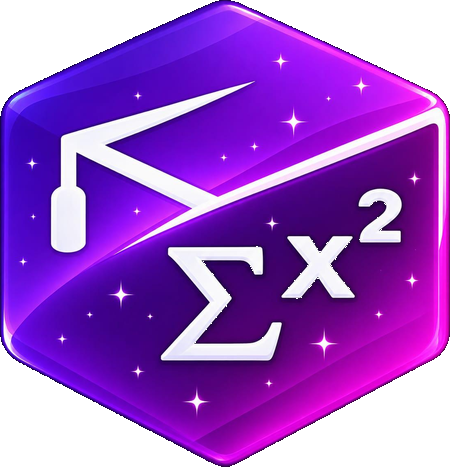
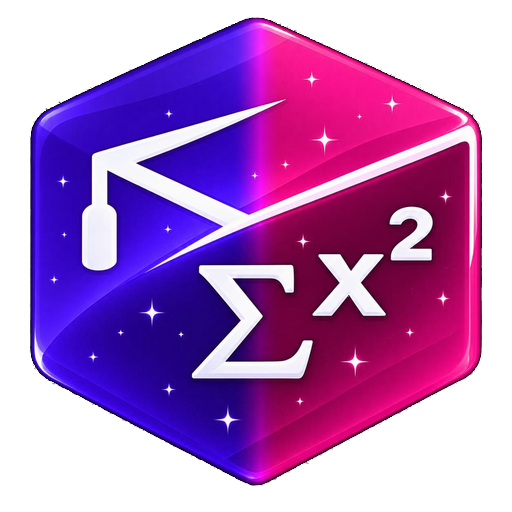
Balance MathWorld mark and Android launcher with the shared brand palette (#88)
* Use identical balanced purple/pink MathWorld mark without changing geometry or alpha

* Apply balanced MathWorld palette to Android launcher densities and native splash assets

* Keep launcher maintenance and audits aligned with balanced committed assets

* Keep launcher maintenance and audits aligned with balanced committed assets

* Keep launcher maintenance and audits aligned with balanced committed assets

* Keep launcher maintenance and audits aligned with balanced committed assets

* Keep launcher maintenance and audits aligned with balanced committed assets

diff --git a/tools/rebuild_approved_external_launcher.py b/tools/rebuild_approved_external_launcher.py
@@ -1,7 +1,7 @@
 #!/usr/bin/env python3
 """Generate ONLY Android launcher assets from the user-approved MathWorld icon.
 
-The PNG/WebP launched by Android contains a single continuous cosmic surface
+The PNG launched by Android contains a single continuous cosmic surface
 rather than a smaller hexagonal emblem on top of a second pale square.
 
 Never writes assets/branding/mathworld-mark.png, in-app logo widget,
@@ -44,6 +44,25 @@ def read_approved_icon() -> Image.Image:
     r, g, b = result.getpixel((result.width // 2, result.height // 2))
     if not (r < 210 and b > 100):
         raise ValueError("Unexpected icon color balance")
+    # Retain the approved artwork and highlights; rebalance only chromatic pixels.
+    pixels = result.load()
+    for y in range(result.height):
+        for x in range(result.width):
+            rgb = pixels[x, y]
+            r, g, b = (v / 255 for v in rgb)
+            v, low = max(r, g, b), min(r, g, b)
+            saturation = 1 - low / v if v else 0
+            if saturation < .12 or v < .025:
+                continue
+            t = max(0., min(1., (x / result.width - .45) / .10))
+            t = t * t * (3 - 2 * t)
+            hue = (255 + 73 * t) / 60
+            chroma = v * saturation
+            z = chroma * (1 - abs(hue % 2 - 1))
+            m = v - chroma
+            target = (z, 0, chroma) if hue < 5 else (chroma, 0, z)
+            mix = min(1., (saturation - .12) / .20)
+            pixels[x, y] = tuple(round(rgb[i] * (1 - mix) + 255 * (target[i] + m) * mix) for i in range(3))
     return result
 
 
@@ -64,12 +83,7 @@ def main() -> None:
             write_png(icon, ANDROID / directory / name, size)
     write_png(icon, ANDROID / "drawable-nodpi/mathworld_adaptive_foreground.png", 432)
     write_png(icon, ANDROID / "drawable-nodpi/ic_launcher_foreground.png", 432)
-    webp = ANDROID / "drawable-nodpi/mathworld_external_launcher.webp"
-    webp.parent.mkdir(parents=True, exist_ok=True)
-    icon.resize((432, 432), Image.Resampling.LANCZOS).save(
-        webp, "WEBP", quality=95, method=6
-    )
-    print(f"EXTERNAL_LAUNCHER|{webp.relative_to(ROOT)}|432")
+    write_png(icon, ANDROID / "drawable-nodpi/mathworld_external_launcher.png", 432)
     print("PASS: generated Android external launcher ONLY; internal MathWorld logo unchanged")
 
 

diff --git a/tools/inspect_brand_assets.py b/tools/inspect_brand_assets.py
@@ -16,7 +16,7 @@ ROOT = Path(__file__).resolve().parents[1]
 ASSETS = {
     "flutter-mark": "assets/branding/mathworld-mark.png",
     "android-adaptive-foreground": "android/app/src/main/res/drawable-nodpi/mathworld_adaptive_foreground.png",
-    "android-legacy-source": "android/app/src/main/res/drawable-nodpi/mathworld_external_launcher.webp",
+    "android-legacy-source": "android/app/src/main/res/drawable-nodpi/mathworld_external_launcher.png",
     "android-native-launch": "android/app/src/main/res/drawable-nodpi/launch_image.png",
     "android-launcher-mdpi": "android/app/src/main/res/mipmap-mdpi/ic_launcher.png",
     "android-launcher-round-mdpi": "android/app/src/main/res/mipmap-mdpi/ic_launcher_round.png",
@@ -96,7 +96,7 @@ def main():
     native_launch=next(x for x in results if x["name"] == "ios-native-launch-3x")
     if (native_launch["width"],native_launch["height"]) != (504,555):
         raise SystemExit("Native iOS splash image must be 504x555 pixels at 3x")
-    print("PASS: Android launcher full-bleed; Flutter mark, iOS/PWA and native splash unchanged")
+    print("PASS: Android launcher full-bleed; mark and native splash retain transparent geometry")
 
 if __name__=="__main__":
     main()

diff --git a/assets/branding/APPROVED_EXTERNAL_LAUNCHER.md b/assets/branding/APPROVED_EXTERNAL_LAUNCHER.md
@@ -1,6 +1,6 @@
 # MathWorld approved external Android launcher
 
-**Approved artwork:** glossy unified blue → violet → magenta rounded-square
+**Approved artwork:** glossy balanced violet → pink rounded-square
 icon featuring the graduation-cap stroke and `Σ x²`, **without** a separate
 smaller hexagonal badge or pastel outer background.
 
@@ -11,8 +11,7 @@ smaller hexagonal badge or pastel outer background.
 - Exact deterministic generator:
   `python tools/rebuild_approved_external_launcher.py`
 - Native Android launcher: all mipmap densities, adaptive foreground, legacy icon.
-- Generated and committed to `main` by GitHub Actions; use signed release APK
-  built **after** the generated resources commit.
+- Generated resources are committed with the branding change. The maintenance workflow regenerates only on explicit dispatch; regular CI audits the committed artwork. Use the signed APK built from the merged branding commit.
 
 ## Branding boundary — mandatory
 
@@ -30,10 +29,10 @@ external Android icon.
 ## Android release verification
 
 After rebuilding, verify:
-1. Launcher artwork shows a **single** continuous blue/violet/magenta field.
+1. Launcher artwork shows a **single** continuous violet/pink field, split equally with a narrow transition.
 2. `Σ x²` and graduation cap remain legible on installed launcher at 48–192px.
 3. On Android 8+, adaptive launcher uses the approved artwork with the device mask.
-4. In-app MathWorld mark remains identical to the earlier version.
+4. In-app MathWorld mark matches the balanced web mark; the external rounded artwork retains its approved geometry.
 5. Google sign-in still uses the established signing certificate; no QA package ID.
 
 The compressed source is intentionally compact for reproducible GitHub Actions.
